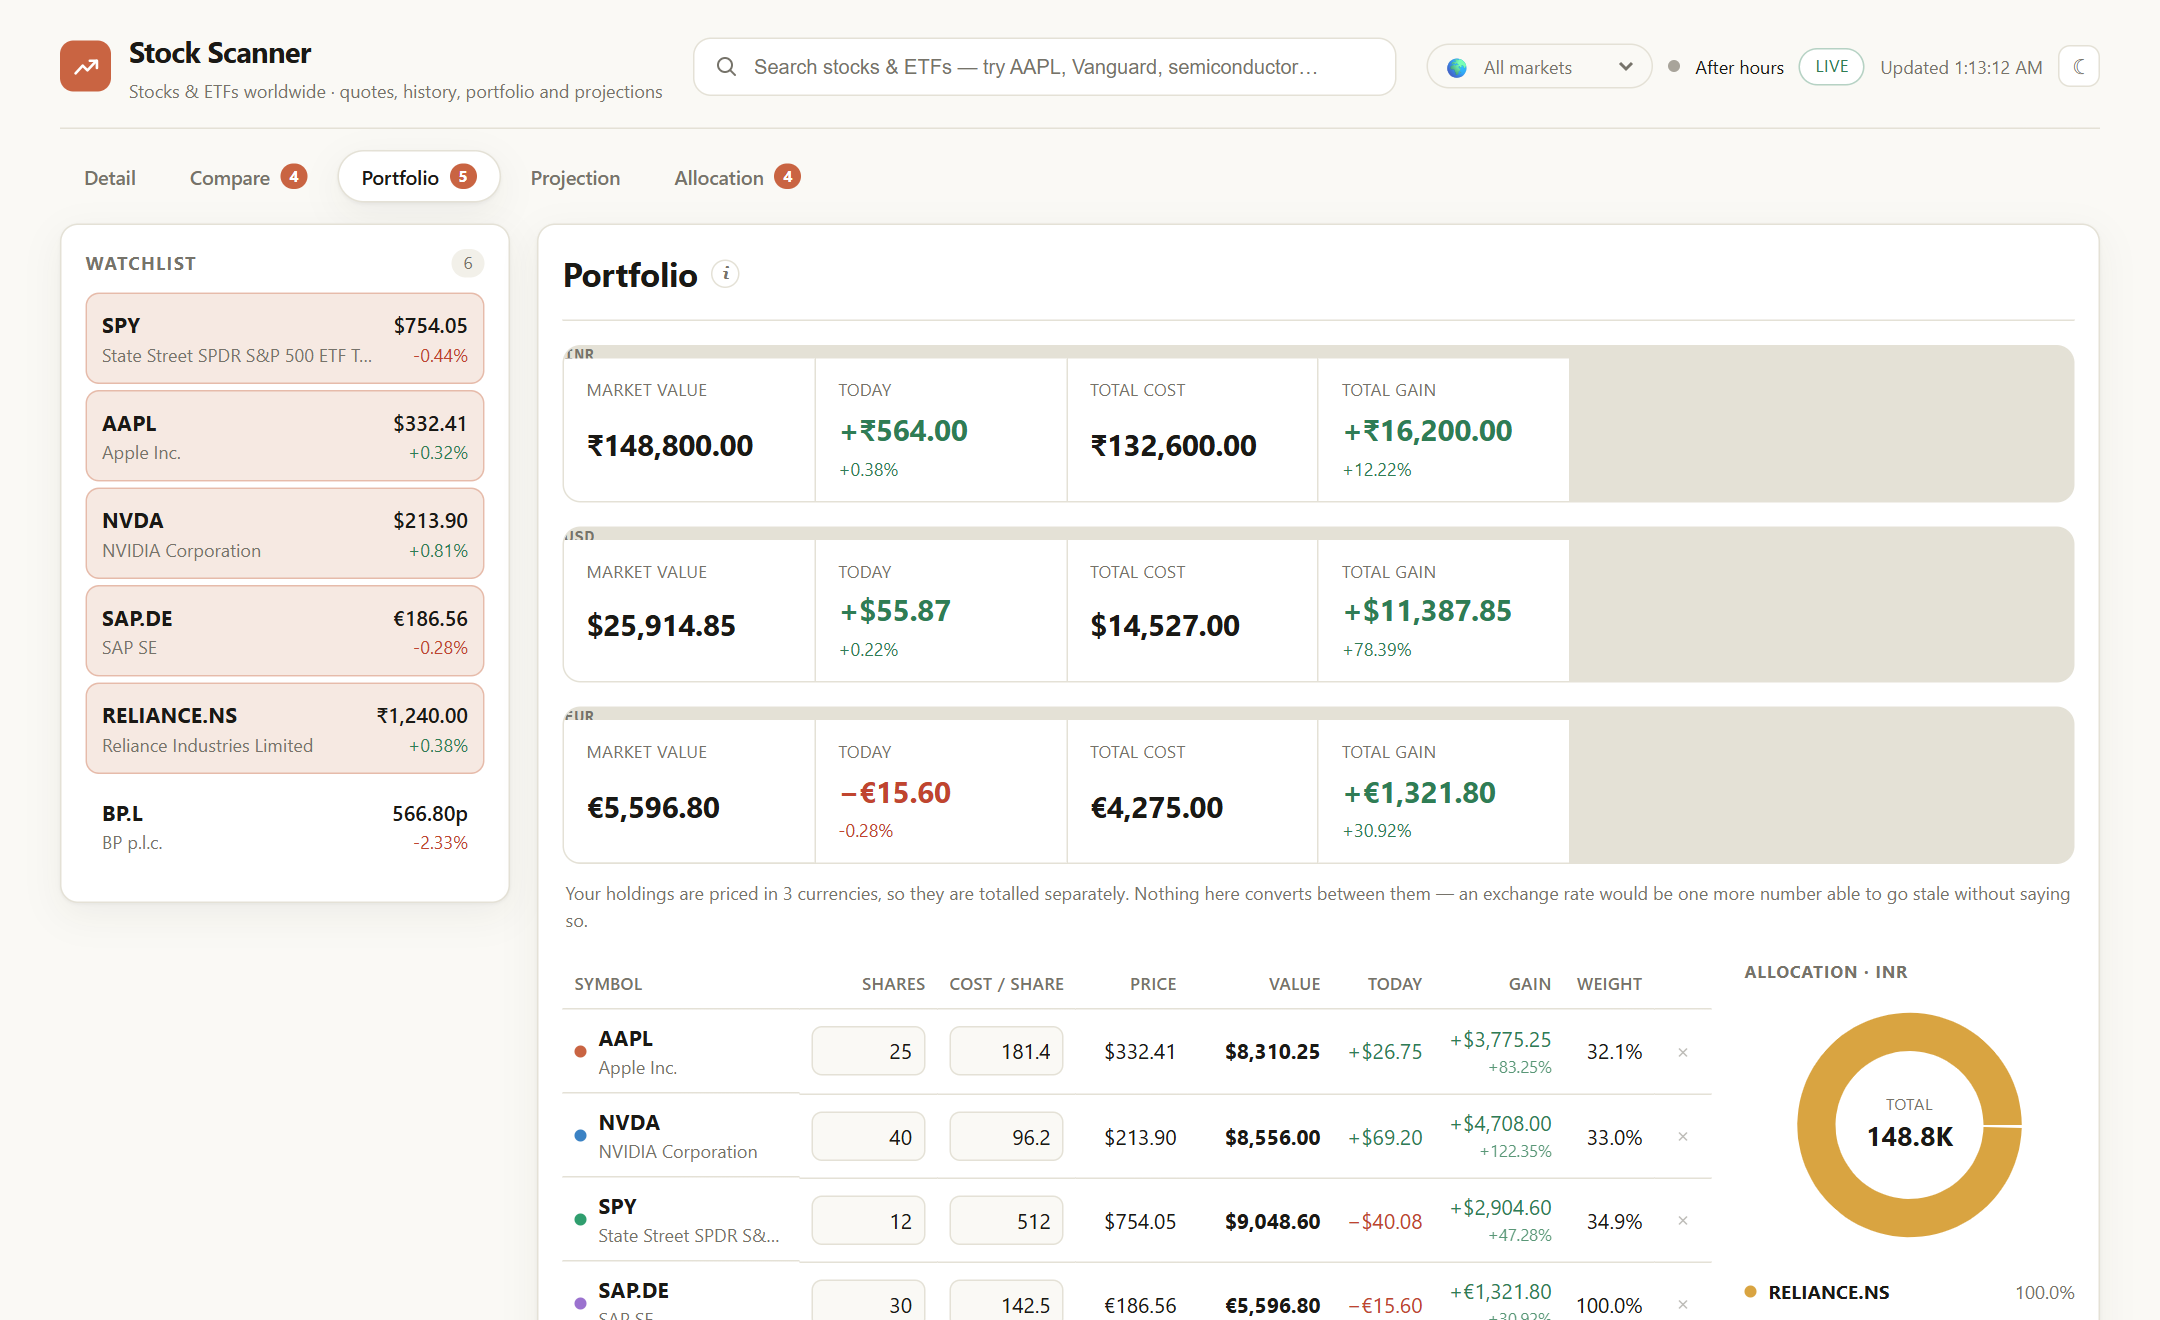
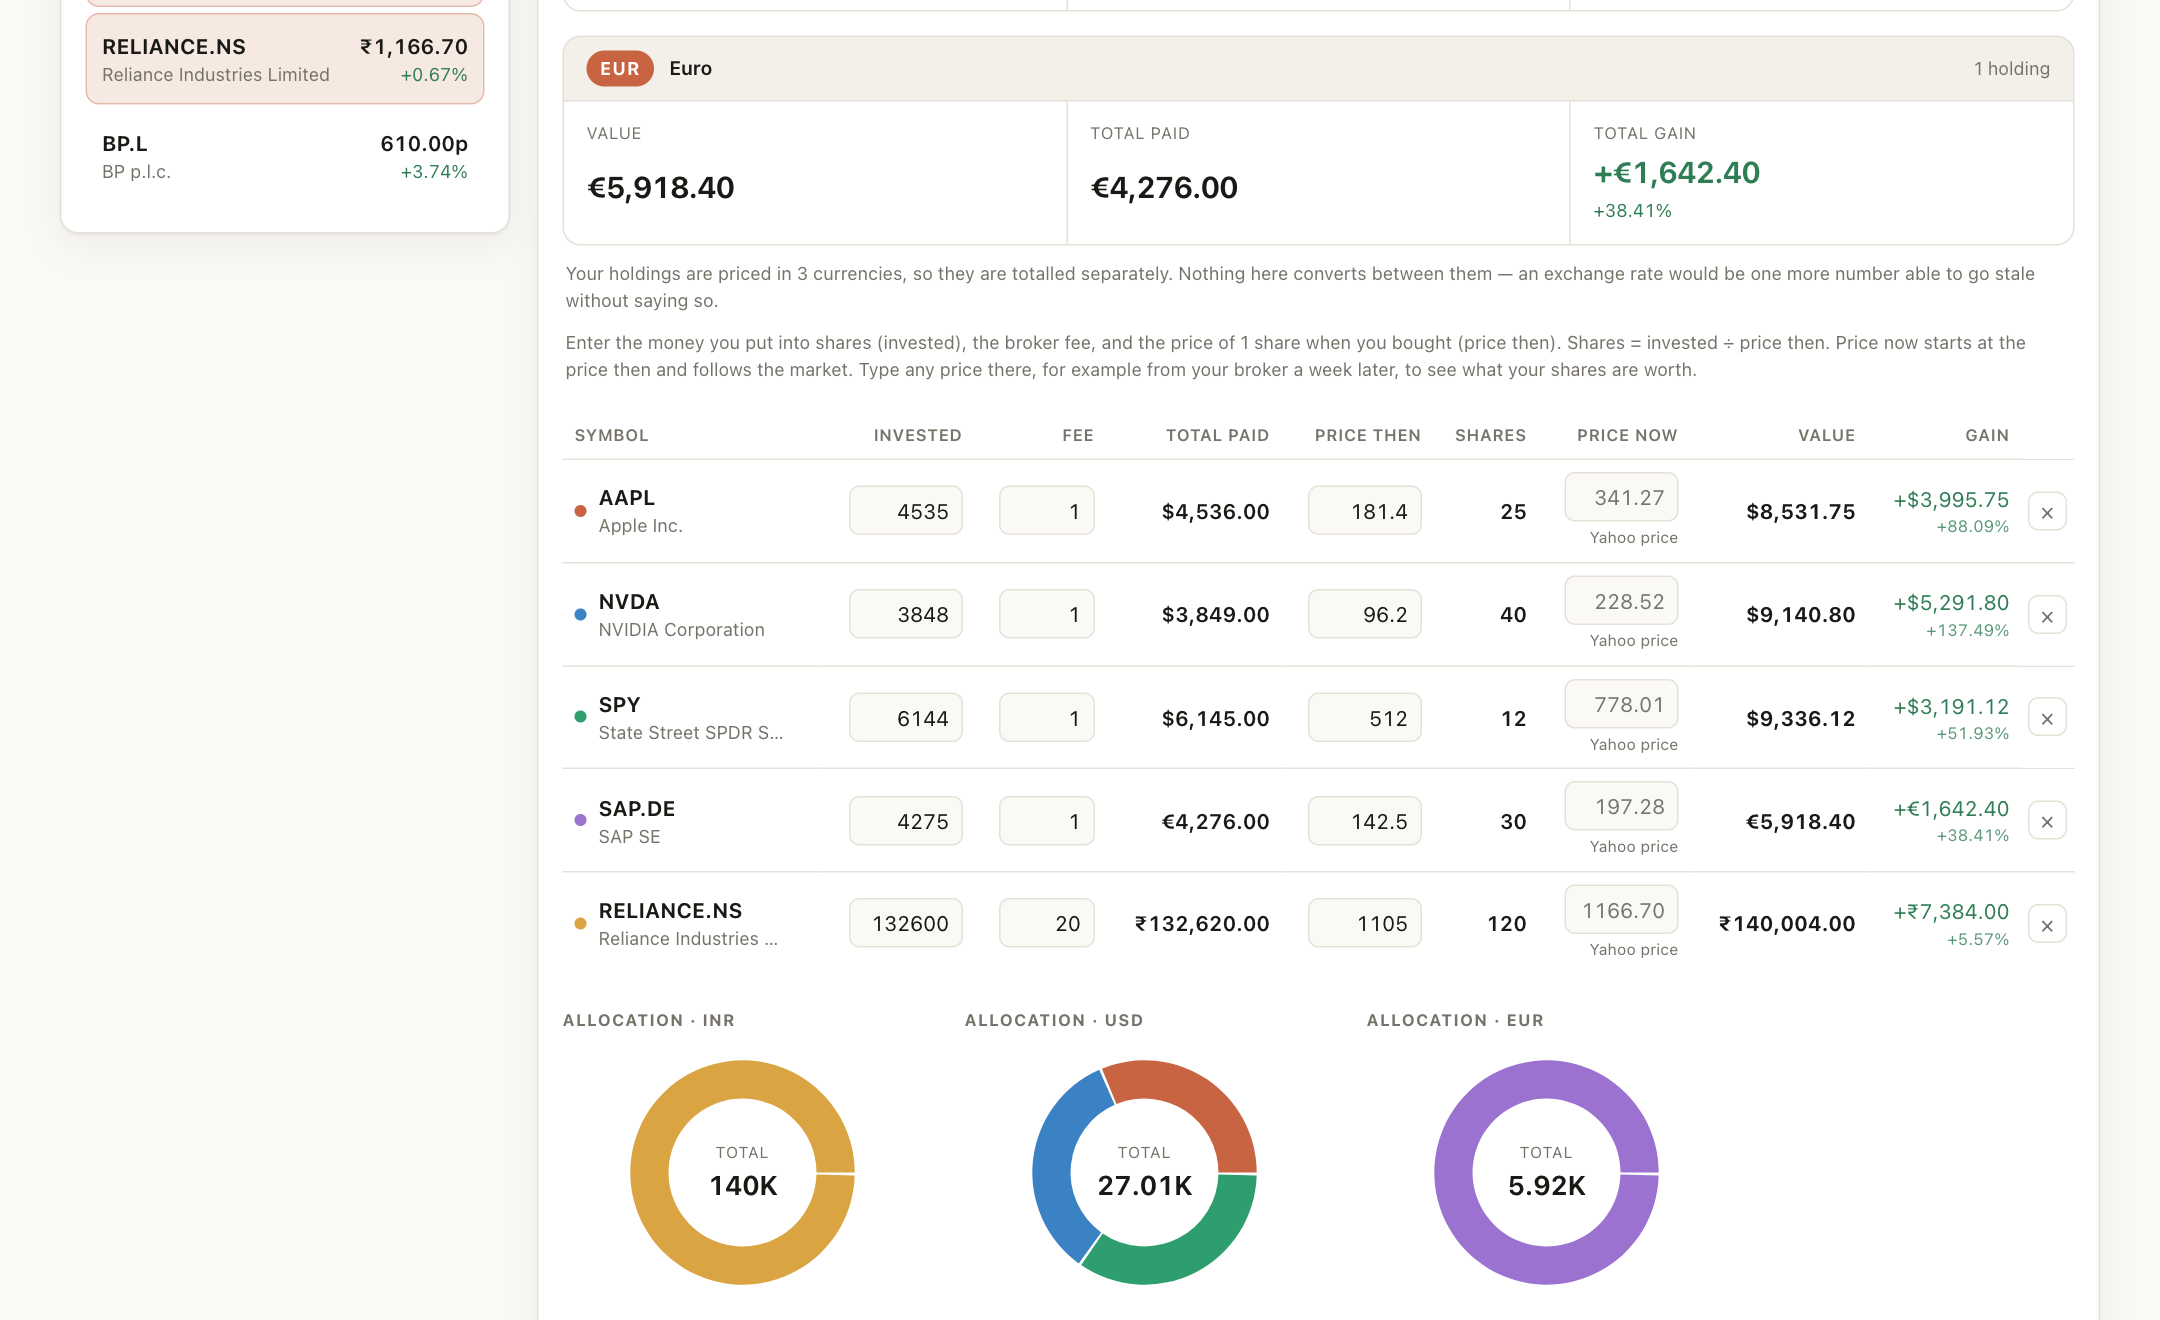
Link the Firefox listing and show the new features
Both Add to Firefox buttons now point to the public listing at
addons.mozilla.org/firefox/addon/stock-scanner/.

The feature grid gains Groups and Backup & move, and the Portfolio
and Allocation cards describe the current app: amount invested, fee
and price per share, and outcomes as a yearly rate. Privacy and
permissions mention groups and local-only backups.

The carousel has fresh captures of all views plus two new slides,
Groups and Backup, with matching captions and the real 1440x880
image size. The og:image uses a full URL so link previews work.

diff --git a/public/index.html b/public/index.html
@@ -8,7 +8,7 @@
 <meta property="og:title" content="Stock Scanner">
 <meta property="og:description" content="Every market, one tab. Build a portfolio, project it and weigh the mix — a viewer, not a broker: it never touches money, and collects nothing about you.">
 <meta property="og:type" content="website">
-<meta property="og:image" content="shots/shot-detail.png">
+<meta property="og:image" content="https://stockscanner.pages.dev/shots/shot-detail.png">
 <link rel="icon" href="icon.png">
 <style>
   :root {
@@ -241,7 +241,7 @@
     <p class="sub">
       Add a ticker, check what it is, see how it compares, enter what you hold, project it
       forward, then weigh the mix — and go round again when something changes. Five views over
-      one watchlist, none of which sends you to another site.
+      one watchlist, sorted into groups if you like, none of which sends you to another site.
     </p>
     <div class="grid">
       <div class="card">
@@ -249,12 +249,16 @@
         <p>Live quotes every 15 seconds, paused while the tab is hidden. Candles from two minutes to twenty years, with company fundamentals alongside.</p>
       </div>
       <div class="card">
+        <h3>Groups</h3>
+        <p>Sort tickers into groups — India, Europe, EUR, Tech, whatever you follow. Pick one and every tab shows only that group, from the watchlist to the portfolio totals. Fill a group in one click by country or currency.</p>
+      </div>
+      <div class="card">
         <h3>Compare</h3>
         <p>Up to eight tickers rebased to a common start, so relative performance is readable rather than inferred from two charts side by side — across exchanges and currencies alike.</p>
       </div>
       <div class="card">
         <h3>Portfolio</h3>
-        <p>Holdings with cost basis, plus the statistics that only exist across them: correlation, volatility and drawdown. Mixed currencies are totalled separately rather than added together.</p>
+        <p>Enter what your broker shows: the amount invested, the fee and the price per share. Shares, value and gain are worked out for you — fractional shares too. Type any price to see what your shares would be worth. Each currency is totalled on its own.</p>
       </div>
       <div class="card">
         <h3>Projection</h3>
@@ -266,7 +270,11 @@
       </div>
       <div class="card">
         <h3>Allocation</h3>
-        <p>Weights across your picks, with fit buttons that show what the maths suggests and are careful to say what they are not.</p>
+        <p>Split a sum across your picks and see what it could become, as a total and as a yearly rate. Fit buttons show what the maths suggests and are careful to say what they are not.</p>
+      </div>
+      <div class="card">
+        <h3>Backup &amp; move</h3>
+        <p>New computer? Download your setup as a file or copy it as text, then load it there — add to what you have or replace it, with undo. Nothing is uploaded anywhere.</p>
       </div>
     </div>
   </div>
@@ -284,7 +292,8 @@
       <div class="fact"><strong>No account</strong><span>Nothing to sign up for.</span></div>
       <div class="fact"><strong>No server</strong><span>Prices go straight from Yahoo to your browser.</span></div>
       <div class="fact"><strong>No telemetry</strong><span>No analytics, no error reporting, no pings.</span></div>
-      <div class="fact"><strong>Holdings stay yours</strong><span>Cost basis and position sizes live in browser storage alone.</span></div>
+      <div class="fact"><strong>Holdings stay yours</strong><span>What you invested and hold lives in browser storage alone.</span></div>
+      <div class="fact"><strong>Backups stay with you</strong><span>A backup is a file you save yourself. It is never uploaded.</span></div>
     </div>
   </div>
 </section>
@@ -296,7 +305,7 @@
     <table class="perms">
       <thead><tr><th>Permission</th><th>What it is for</th></tr></thead>
       <tbody>
-        <tr><td><code>storage</code></td><td>Your watchlist, holdings, comparison and theme.</td></tr>
+        <tr><td><code>storage</code></td><td>Your watchlist, groups, holdings, comparison and theme.</td></tr>
         <tr><td><code>query1/query2.finance.yahoo.com</code></td><td>Quotes, candles, search, company profiles and option chains.</td></tr>
         <tr><td><code>fc.yahoo.com</code></td><td>Issues the session cookie that option chains require.</td></tr>
       </tbody>

diff --git a/public/carousel.js b/public/carousel.js
@@ -14,7 +14,13 @@ const SHOTS = [
     tab: 'Detail',
     file: 'shots/shot-detail.png',
     caption:
-      'A watchlist spanning three currencies — dollars, euros, rupees and London’s pence — with candles from two minutes to twenty years.',
+      'A watchlist spanning four currencies — dollars, euros, rupees and London’s pence — with candles from two minutes to twenty years.',
+  },
+  {
+    tab: 'Groups',
+    file: 'shots/shot-groups.png',
+    caption:
+      'Sort your tickers into groups — a country, a currency, a theme — and every tab shows just that group. Fill one in a click by country or currency.',
   },
   {
     tab: 'Compare',
@@ -26,7 +32,7 @@ const SHOTS = [
     tab: 'Portfolio',
     file: 'shots/shot-portfolio.png',
     caption:
-      'Holdings in different currencies are totalled separately. Nothing here invents an exchange rate to add a euro to a rupee.',
+      'Enter what your broker shows — amount invested, fee, price per share — and the shares and gain are worked out. Each currency is totalled on its own.',
   },
   {
     tab: 'Projection',
@@ -38,7 +44,13 @@ const SHOTS = [
     tab: 'Allocation',
     file: 'shots/shot-allocation.png',
     caption:
-      'Weights across your picks, scored on how these tickers actually moved — a description of history rather than a recommendation.',
+      'Split a sum across your picks and see what it could become, as a total and as a yearly rate — a description of history, not a recommendation.',
+  },
+  {
+    tab: 'Backup',
+    file: 'shots/shot-backup.png',
+    caption:
+      'Moving to a new computer? Save your setup as a file or copy it as text, then load it there. Nothing is uploaded anywhere.',
   },
 ];
 
@@ -59,7 +71,7 @@ if (slides && tabs && caption) {
     img.src = shot.file;
     img.alt = `Stock Scanner: the ${shot.tab} view`;
     img.width = 1440;
-    img.height = 940;
+    img.height = 880;
     // Only the first shot is worth blocking on; the rest arrive as needed.
     img.loading = i === 0 ? 'eager' : 'lazy';
     img.decoding = 'async';

diff --git a/public/links.js b/public/links.js
@@ -9,8 +9,8 @@ const LINKS = {
   // Your Buy Me a Coffee page. Keep it the same as src/links.js in the extension.
   sponsor: 'https://buymeacoffee.com/adi.shukla41',
 
-  // Fill in once Firefox review passes.
-  addon: 'https://addons.mozilla.org/firefox/addon/YOUR_ADDON',
+  // The listing on addons.mozilla.org. Mozilla sends each visitor to their own language.
+  addon: 'https://addons.mozilla.org/firefox/addon/stock-scanner/',
 
   // Where the code lives, and where Chrome users get install instructions.
   source: 'https://github.com/adityashukla55/StockScanner',

diff --git a/README.md b/README.md
@@ -28,15 +28,17 @@ Connect to Git**. Every push then deploys, and each deployment stays reachable f
 Before that connection exists, the manual route still works: **Create deployment**, drag the
 `public` folder, done.
 
-## Before deploying, fill in two links
+## Links
 
-Both at the top of `public/links.js`, in the block marked `EDIT THESE`:
+All three are at the top of `public/links.js`, in the block marked `EDIT THESE`:
 
-- **The add-on link** — once Firefox review passes. Until then both "Add to Firefox" buttons
-  read *Coming to Firefox* rather than pointing nowhere.
+- **The add-on link** — `https://addons.mozilla.org/firefox/addon/stock-scanner/`, the public
+  Firefox listing. Do not use a `moz-extension://…` address: that only works inside one
+  person's Firefox, with a random id per install. If the link is ever set back to a
+  placeholder, the "Add to Firefox" buttons read *Coming to Firefox* rather than pointing
+  nowhere.
 - **The source repo** — that button removes itself while unset.
-
-The Buy Me a Coffee link is already set, and matches `src/links.js` in the extension.
+- **Buy Me a Coffee** — matches `src/links.js` in the extension.
 
 ## The screenshots
 
@@ -44,16 +46,23 @@ The Buy Me a Coffee link is already set, and matches `src/links.js` in the exten
 the dev server with a watchlist that deliberately spans dollars, euros and pence so the
 multi-currency handling is visible.
 
-To regenerate them after a UI change, from the extension project:
+There are seven: Detail, Groups (with the group editor open), Compare, Portfolio,
+Projection, Allocation and Backup (the Backup & move panel).
+
+To regenerate them after a UI change, from the extension project (it sits next to this one):
 
 ```bash
 npm install --no-save puppeteer-core
 npm run dev            # dev server + Yahoo proxy, on :5320
-npm run screenshots    # writes into this site's public/shots
+npm run screenshots    # writes into ../StockScanner-site/public/shots
 ```
 
-Captured at 1.5× for retina without the weight of 2× — about 1.1 MB for all five, of which
-only the first loads up front; the rest are lazy.
+The script finds Chrome on Windows, macOS and Linux. Set `CHROME` to point at another
+browser binary, and `CHROME_PROFILE` to a folder of your own if Chrome refuses to start with
+a temporary profile.
+
+Captured at 1440×880 and 1.5× for retina without the weight of 2×. Only the first loads up
+front; the rest are lazy.
 
 ## The carousel
 
